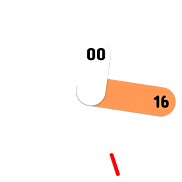
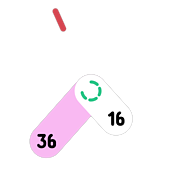
Resize hands and recolor

diff --git a/analog-boombox/usr/share/asteroid-launcher/watchfaces/analog-boombox.qml b/analog-boombox/usr/share/asteroid-launcher/watchfaces/analog-boombox.qml
@@ -25,7 +25,7 @@
 import QtQuick 2.15
 import QtGraphicalEffects 1.15
 import QtQuick.Shapes 1.15
-import Nemo.Mce 1.0
+//import Nemo.Mce 1.0
 
 Item {
     id: root
@@ -34,81 +34,14 @@ Item {
 
     anchors.fill: parent
 
-    MceBatteryLevel {
+    /*MceBatteryLevel {
         id: batteryChargePercentage
-    }
+    }*/
 
     Item {
-        id: nightstandMode
-
-        anchors.fill: parent
-        visible: nightstand
-
-        Item {
-            id: batterySegments
-
-            anchors.fill: parent
-
-            layer {
-                enabled: true
-                samples: 4
-                smooth: true
-                textureSize: Qt.size(root.width * 2, root.height * 2)
-            }
-
-            Repeater {
-                id: segmentedArc
-
-                property real inputValue: batteryChargePercentage.percent
-                property int segmentAmount: 12
-                property int start: 0
-                property int gap: 8
-                property int endFromStart: 360
-                property bool clockwise: true
-                property real arcStrokeWidth: .02
-                property real scalefactor: .33 - (arcStrokeWidth / 2)
-
-                model: segmentAmount
-
-                Shape {
-                    id: segment
-
-                    visible: index === 0 ? true : (index/segmentedArc.segmentAmount) < segmentedArc.inputValue
-
-                    ShapePath {
-                        fillColor: "transparent"
-                        strokeColor: "green"
-                        strokeWidth: parent.height * segmentedArc.arcStrokeWidth
-                        capStyle: ShapePath.RoundCap
-                        joinStyle: ShapePath.MiterJoin
-                        startX: parent.width / 2
-                        startY: parent.height * ( .5 - segmentedArc.scalefactor)
-
-                        PathAngleArc {
-                            centerX: parent.width / 2
-                            centerY: parent.height / 2
-                            radiusX: segmentedArc.scalefactor * parent.width
-                            radiusY: segmentedArc.scalefactor * parent.height
-                            startAngle: -90 + index * (sweepAngle + (segmentedArc.clockwise ? +segmentedArc.gap : -segmentedArc.gap)) + segmentedArc.start
-                            sweepAngle: segmentedArc.clockwise ? (segmentedArc.endFromStart / segmentedArc.segmentAmount) - segmentedArc.gap :
-                                                                 -(segmentedArc.endFromStart / segmentedArc.segmentAmount) + segmentedArc.gap
-                            moveToStart: true
-                        }
-                    }
-                }
-            }
-        }
-
-        layer.enabled: true
-        layer.effect: DropShadow {
-            transparentBorder: true
-            horizontalOffset: 0
-            verticalOffset: 0
-            radius: 4.0
-            samples: 9
-            color: Qt.rgba(0, 0, 0, .75)
-        }
-    }
+           id: batteryChargePercentage
+           property var percent: featureSlider.value
+       }
 
     Item {
         id: handBox
@@ -127,16 +60,6 @@ Item {
                 origin.y: parent.height / 2
                 angle: (wallClock.time.getSeconds() * 6)
             }
-
-            layer.enabled: true
-            layer.effect: DropShadow {
-                transparentBorder: true
-                horizontalOffset: 2
-                verticalOffset: 2
-                radius: 4
-                samples: 9
-                color: Qt.rgba(0, 0, 0, .3)
-            }
         }
 
         Image {
@@ -149,16 +72,6 @@ Item {
                 origin.x: parent.width / 2
                 origin.y: parent.height / 2
                 angle: (wallClock.time.getMinutes() * 6) + (wallClock.time.getSeconds() * 6 / 60)
-            }
-
-            layer.enabled: true
-            layer.effect: DropShadow {
-                transparentBorder: true
-                horizontalOffset: 2
-                verticalOffset: 2
-                radius: 4.0
-                samples: 9
-                color: Qt.rgba(0, 0, 0, .3)
             }
         }
 
@@ -173,53 +86,115 @@ Item {
                 origin.y: parent.height / 2
                 angle: (wallClock.time.getHours() * 30) + (wallClock.time.getMinutes() * .5)
             }
+        }
 
-            layer.enabled: true
-            layer.effect: DropShadow {
+        layer {
+            enabled: true
+            samples: 4
+            smooth: true
+            textureSize: Qt.size(root.width * 2, root.height * 2)
+            effect: DropShadow {
                 transparentBorder: true
-                horizontalOffset: 2
-                verticalOffset: 2
-                radius: 4.0
-                samples: 9
-                color: Qt.rgba(0, 0, 0, .2)
+                horizontalOffset: 0
+                verticalOffset: 0
+                radius: 10.0
+                samples: 21
+                color: Qt.rgba(0, 0, 0, .4)
             }
         }
+    }
 
-        Text {
-            id: hourDisplay
+    Text {
+        id: hourDisplay
 
-            property real rotH: (wallClock.time.getHours() - 3 + wallClock.time.getMinutes() / 60) / 12
-            property real centerX: parent.width / 2 - width / 2
-            property real centerY: parent.height / 2 - height / 2.04
+        property real rotH: (wallClock.time.getHours() - 3 + wallClock.time.getMinutes() / 60) / 12
+        property real centerX: parent.width / 2 - width / 2
+        property real centerY: parent.height / 2 - height / 2.04
 
-            font {
-                pixelSize: parent.height * .1
-                family: "Dangrek"
-            }
-            color: "black"
-            x: centerX + Math.cos(rotH * 2 * Math.PI) * parent.height * 0.204
-            y: centerY + Math.sin(rotH * 2 * Math.PI) * parent.width * 0.204
-            text: if (use12H.value) {
-                      wallClock.time.toLocaleString(Qt.locale(), "hh ap").slice(0, 2) }
-                  else
-                      wallClock.time.toLocaleString(Qt.locale(), "HH")
+        font {
+            pixelSize: parent.height * .114
+            family: "Dangrek"
+            letterSpacing: -parent.height * .003
+        }
+        color: "black"
+        x: centerX + Math.cos(rotH * 2 * Math.PI) * parent.height * 0.204
+        y: centerY + Math.sin(rotH * 2 * Math.PI) * parent.width * 0.204
+        text: if (use12H.value) {
+                  wallClock.time.toLocaleString(Qt.locale(), "hh ap").slice(0, 2) }
+              else
+                  wallClock.time.toLocaleString(Qt.locale(), "HH")
+    }
+
+    Text {
+        id: minuteDisplay
+
+        property real rotM: ((wallClock.time.getMinutes() - 15 + (wallClock.time.getSeconds() / 60)) / 60)
+        property real centerX: parent.width / 2 - width / 2
+        property real centerY: parent.height / 2 - height / 2.04
+
+        font{
+            pixelSize: parent.height * .114
+            family: "Dangrek"
+            letterSpacing: -parent.height * .003
+        }
+        color: "black"
+        x: centerX + Math.cos(rotM * 2 * Math.PI) * parent.height * .369
+        y: centerY + Math.sin(rotM * 2 * Math.PI) * parent.width * .369
+        text: wallClock.time.toLocaleString(Qt.locale(), "mm")
+    }
+
+    Item {
+        id: batterySegments
+
+        anchors.fill: parent
+
+        layer {
+            enabled: true
+            samples: 4
+            smooth: true
+            textureSize: Qt.size(root.width * 2, root.height * 2)
         }
 
-        Text {
-            id: minuteDisplay
+        Repeater {
+            id: segmentedArc
 
-            property real rotM: ((wallClock.time.getMinutes() - 15 + (wallClock.time.getSeconds() / 60)) / 60)
-            property real centerX: parent.width / 2 - width / 2
-            property real centerY: parent.height / 2 - height / 2.04
+            property real inputValue: batteryChargePercentage.percent
+            property int segmentAmount: 5
+            property int start: 0
+            property int gap: 28
+            property int endFromStart: 360
+            property bool clockwise: true
+            property real arcStrokeWidth: .017
+            property real scalefactor: .058 - (arcStrokeWidth / 2)
 
-            font{
-                pixelSize: parent.height * .1
-                family: "Dangrek"
+            model: segmentAmount
+
+            Shape {
+                id: segment
+
+                visible: index === 0 ? true : (index/segmentedArc.segmentAmount) < segmentedArc.inputValue
+
+                ShapePath {
+                    fillColor: "transparent"
+                    strokeColor: "#26C485"
+                    strokeWidth: parent.height * segmentedArc.arcStrokeWidth
+                    capStyle: ShapePath.RoundCap
+                    joinStyle: ShapePath.MiterJoin
+                    startX: parent.width / 2
+                    startY: parent.height * ( .5 - segmentedArc.scalefactor)
+
+                    PathAngleArc {
+                        centerX: parent.width / 2
+                        centerY: parent.height / 2
+                        radiusX: segmentedArc.scalefactor * parent.width
+                        radiusY: segmentedArc.scalefactor * parent.height
+                        startAngle: -90 + index * (sweepAngle + (segmentedArc.clockwise ? +segmentedArc.gap : -segmentedArc.gap)) + segmentedArc.start
+                        sweepAngle: segmentedArc.clockwise ? (segmentedArc.endFromStart / segmentedArc.segmentAmount) - segmentedArc.gap :
+                                                             -(segmentedArc.endFromStart / segmentedArc.segmentAmount) + segmentedArc.gap
+                        moveToStart: true
+                    }
+                }
             }
-            color: "black"
-            x: centerX + Math.cos(rotM * 2 * Math.PI) * parent.height * .39
-            y: centerY + Math.sin(rotM * 2 * Math.PI) * parent.width * .39
-            text: wallClock.time.toLocaleString(Qt.locale(), "mm")
         }
     }
 }
